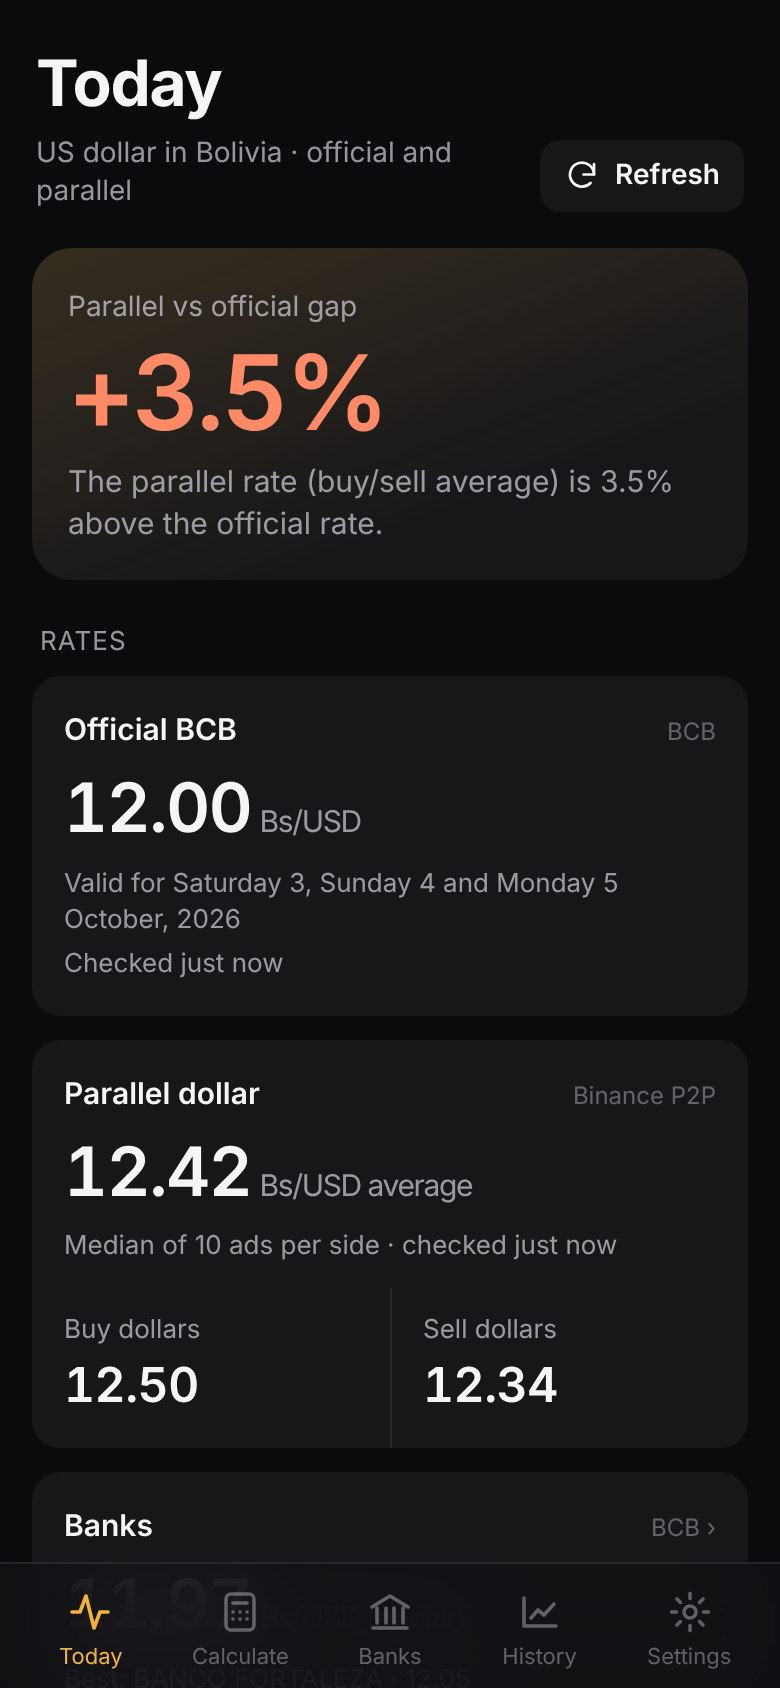
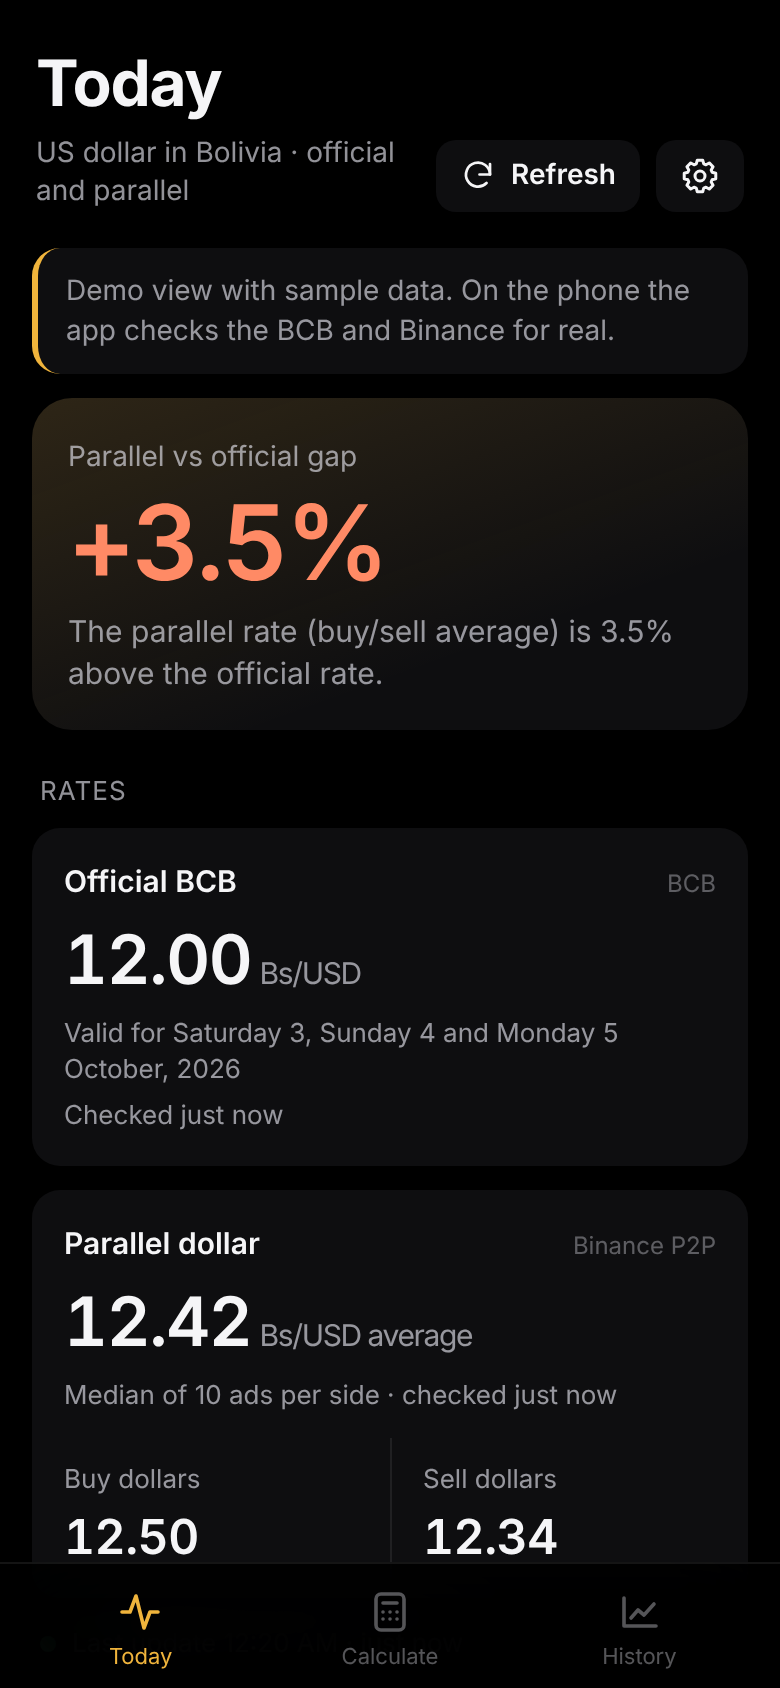
Update README screenshots for the new layout

diff --git a/README.md b/README.md
@@ -32,12 +32,13 @@ No accounts, no analytics, no location permission, no server. Your settings and 
 Use the phone's language or choose Español or English in Settings. Numbers and the daily notification follow the language you pick. You can also export your settings to a file and import them on another phone.
 
 🌙 **CLEAN, MODERN DESIGN:**
-Dark, OLED (pure black) and light themes, or follow the system, large numbers that are easy to read, and a simple three-tab layout (Today, Calculate, History) with Settings behind the gear on the Today screen.
+Dark (pure black, easy on OLED screens) and light themes, or follow the system, large numbers that are easy to read, and a simple three-tab layout (Today, Calculate, History) with Settings behind the gear on the Today screen.
 
 <div align="center">
-<img alt="Today screen" src="docs/screenshots/1_today.png" width="30%">
-<img alt="Calculator screen" src="docs/screenshots/3_calculate.png" width="30%">
-<img alt="History screen" src="docs/screenshots/4_history.png" width="30%">
+<img alt="Today screen" src="docs/screenshots/1_today.png" width="23%">
+<img alt="Calculator screen" src="docs/screenshots/2_calculate.png" width="23%">
+<img alt="History screen" src="docs/screenshots/3_history.png" width="23%">
+<img alt="Settings screen" src="docs/screenshots/4_settings.png" width="23%">
 </div>
 <p align="center"><sub>Screenshots with sample data.</sub></p>
 
